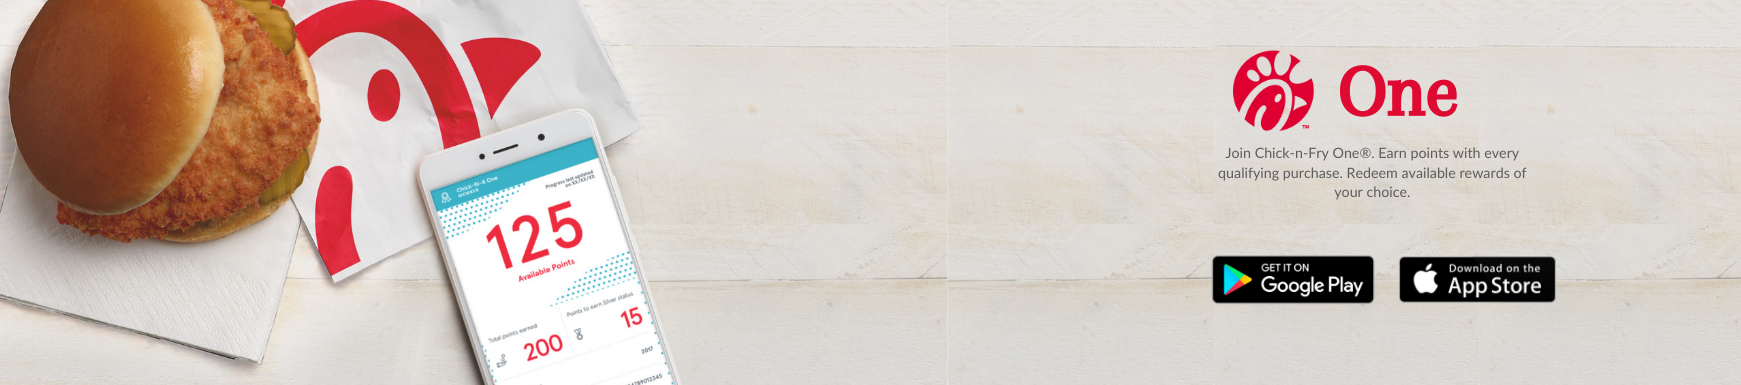
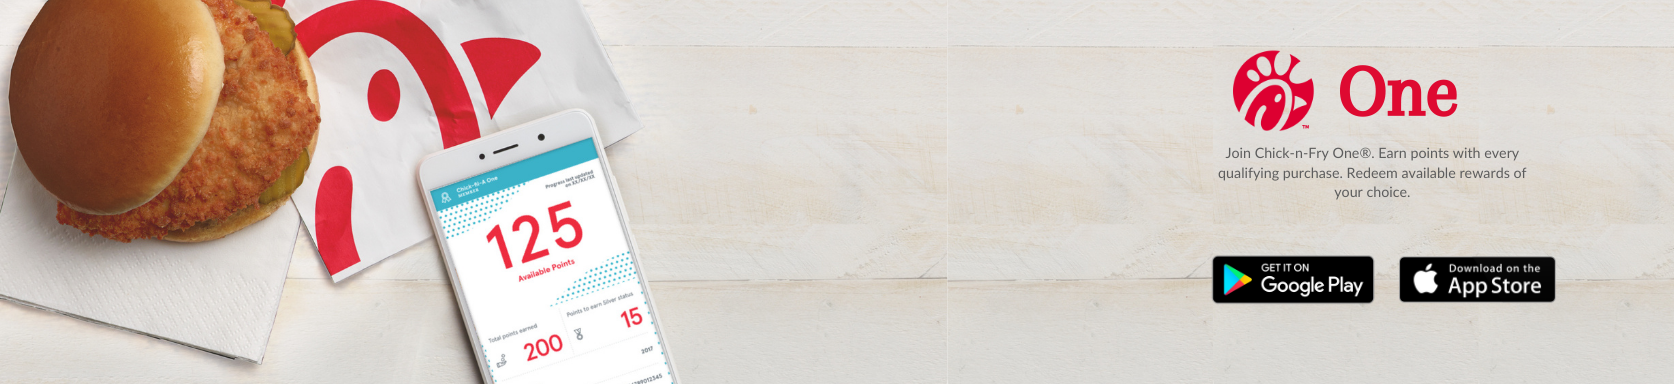
adjusted the pages where the image at the bottom was overflowing

diff --git a/frontend/Styles/breakfast.css b/frontend/Styles/breakfast.css
@@ -1,158 +1,161 @@
 * {
-    font-family: 'Lato', sans-serif;
+  font-family: "Lato", sans-serif;
 }
 
 /* Navbar */
 nav {
-    display: flex;
-    align-items: center;
-    justify-content: space-between;
-    color: #de0a31;
-    box-shadow: rgba(17, 17, 26, 0.1) 0px 1px 0px;
-    margin-top: -0.5%;
-    position: fixed;
-    width: 100%;
-    background-color: #fff;
+  display: flex;
+  align-items: center;
+  justify-content: space-between;
+  color: #de0a31;
+  box-shadow: rgba(17, 17, 26, 0.1) 0px 1px 0px;
+  margin-top: -0.5%;
+  position: fixed;
+  width: 100%;
+  background-color: #fff;
 }
 
 #logo-name {
-    display: flex;
-    align-items: center;
-    justify-content: center;
+  display: flex;
+  align-items: center;
+  justify-content: center;
 }
 
 #signup,
 #menu {
-    display: flex;
-    align-items: center;
-    justify-content: center;
-    gap: 2rem;
+  display: flex;
+  align-items: center;
+  justify-content: center;
+  gap: 2rem;
 }
 
-#signup>a,
-#menu>a {
-    text-decoration: none;
-    color: #de0a31;
+#signup > a,
+#menu > a {
+  text-decoration: none;
+  color: #de0a31;
 }
 
 #order-btn {
-    border: none;
-    background-color: #de0a31;
-    color: white;
-    height: 45px;
-    padding: 0.6rem;
-    border-radius: 20px;
-    cursor: pointer;
+  border: none;
+  background-color: #de0a31;
+  color: white;
+  height: 45px;
+  padding: 0.6rem;
+  border-radius: 20px;
+  cursor: pointer;
 }
 
-#logo-name>img {
-    width: 13%;
-    cursor: pointer;
-    margin-bottom: 2%
+#logo-name > img {
+  width: 13%;
+  cursor: pointer;
+  margin-bottom: 2%;
 }
 
 #menu {
-    width: 25%;
-    margin-right: 5%;
+  width: 25%;
+  margin-right: 5%;
 }
 
 #signup {
-    width: 25%;
-    margin-right: 5%;
+  width: 25%;
+  margin-right: 5%;
 }
-#nav-qty{
-    position: fixed;
-    top: 9px;
-    right: 313px;
-    padding: 2px 5px 2px 5px;
-    border-radius: 50%;
-    color: white;
-    background-color: #de0a31;
+#nav-qty {
+  position: fixed;
+  top: 9px;
+  right: 313px;
+  padding: 2px 5px 2px 5px;
+  border-radius: 50%;
+  color: white;
+  background-color: #de0a31;
 }
-ion-icon{
-    font-size: 25px;
+ion-icon {
+  font-size: 25px;
 }
 /* menu part */
-.menu{
-    display: flex;
-    align-items: center;
-    justify-content: space-between;
-    margin: auto;
-    width: 60%;
-    padding: 1rem;
+.menu {
+  display: flex;
+  align-items: center;
+  justify-content: space-between;
+  margin: auto;
+  width: 60%;
+  padding: 1rem;
 }
-.menu>a{
-    text-decoration: none;
-    color: #de0a31;
+.menu > a {
+  text-decoration: none;
+  color: #de0a31;
 }
-#menuu{
-    box-shadow: rgba(17, 17, 26, 0.1) 0px 1px 0px;
+#menuu {
+  box-shadow: rgba(17, 17, 26, 0.1) 0px 1px 0px;
 }
 /* main */
-#main>div>h1{
-    color: #004f71;
-    text-align: center;
+#main > div > h1 {
+  color: #004f71;
+  text-align: center;
 }
 /* container */
-#container{
-    display: grid;
-    grid-template-columns: repeat(3,1fr);
-    gap: 2rem;
-    grid-template-rows: auto;
-    width: 90%;
-    margin: auto;
-    text-align: center;
+#container {
+  display: grid;
+  grid-template-columns: repeat(3, 1fr);
+  gap: 2rem;
+  grid-template-rows: auto;
+  width: 90%;
+  margin: auto;
+  text-align: center;
 }
-#container>div{
-    margin: 1rem 0 0 0;
+#container > div {
+  margin: 1rem 0 0 0;
 }
-#container>div>img{
-    width: 60%;
+#container > div > img {
+  width: 60%;
 }
-#container>div>h2{
-    color: #004f71;
+#container > div > h2 {
+  color: #004f71;
 }
-#container>div>h2+p{
-    color: gray;
-    font-size: small;
+#container > div > h2 + p {
+  color: gray;
+  font-size: small;
 }
-#container>div>h2+p+p{
-    color: black;
-    font-size: x-large;
+#container > div > h2 + p + p {
+  color: black;
+  font-size: x-large;
 }
-#container>div>button{
-    border: none;
-    background-color: #de0a31;
-    color: white;
-    height: 45px;
-    width: 25%;
-    font-size: 17px;
-    padding: 0.6rem;
-    border-radius: 20px;
-    cursor: pointer;
+#container > div > button {
+  border: none;
+  background-color: #de0a31;
+  color: white;
+  height: 45px;
+  width: 25%;
+  font-size: 17px;
+  padding: 0.6rem;
+  border-radius: 20px;
+  cursor: pointer;
 }
 
 /* bottom part */
-#btm{
-    margin-top: 2%;
+#btm {
+  margin-top: 2%;
 }
 #btm-texts,
 #btm-text {
-    width: 45%;
-    margin: auto;
-    display: flex;
-    justify-content: space-around;
+  width: 45%;
+  margin: auto;
+  display: flex;
+  justify-content: space-around;
 }
 
-#btm-texts>a {
-    text-decoration: none;
-    color: #de0a31;
+#btm-texts > a {
+  text-decoration: none;
+  color: #de0a31;
 }
-#btm-text{
-    margin-top: 0.5%;
+#btm-text {
+  margin-top: 0.5%;
 }
-#btm-text>a {
-    text-decoration: none;
-    color: gray;
-    font-size: 12px;
+#btm-text > a {
+  text-decoration: none;
+  color: gray;
+  font-size: 12px;
+}
+#btm-top > img {
+  width: 100%;
 }

diff --git a/frontend/breakfast.html b/frontend/breakfast.html
@@ -50,7 +50,7 @@
         <div id="container"></div>
     </div>
     <br><br>
-    <div>
+    <div id="btm-top">
         <img width="105%" src="./images/One (2).png" alt="">
     </div>
     <div id="btm">

diff --git a/frontend/index.html b/frontend/index.html
@@ -112,7 +112,7 @@
         </div>
     </div>
     <br><br>
-    <div>
+    <div id="btm-top">
         <img width="105%" src="./images/One (2).png" alt="">
     </div>
     <div id="btm">

diff --git a/frontend/Styles/login.css b/frontend/Styles/login.css
@@ -132,7 +132,9 @@ a {
 #btm-top{
     margin-top: 5%;
 }
-
+#btm-top>img{
+    width: 100%;
+}
 #btm{
     margin-top: 2%;
 }

diff --git a/frontend/Styles/index.css b/frontend/Styles/index.css
@@ -269,3 +269,6 @@ ion-icon{
     color: gray;
     font-size: 12px;
 }
+#btm-top>img{
+    width: 100%;
+}
